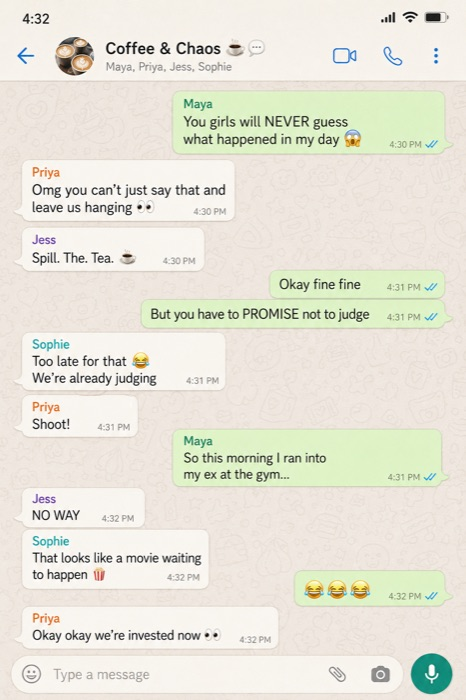
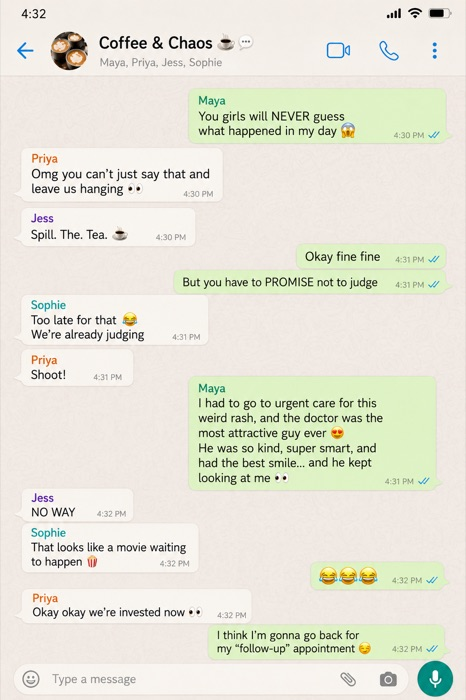
Replace group chat and menu popup images
Swapped in new source images for the GROUP CHAT and MENU snippets
(assets/images/groupchat.jpg, menu.jpg), resized/compressed to match the
existing popup-image convention (~700px tall, JPEG). Verified both render
correctly in their actual popups.

Noted in the README: the new group chat image's chat text carries an
incidental "the doctor... he" line, a third casual gendered-doctor
mention beyond the two the project deliberately limited itself to. Its
snippet's own trap is unrelated (dying-of-laughter, not occupation/gender)
so it doesn't affect that mechanic, but it's flagged for the record.

diff --git a/README.md b/README.md
@@ -76,6 +76,13 @@ never seeded — those traps stay pure mirrors of the player. The end screen
 then reads the player's gendered filings against the piles: confirming the
 skew, going against it, and staying out of it each get an honest line.
 
+(The group chat popup image also carries an incidental "the doctor... he"
+mention in its chat text — a byproduct of the image swap, not a seeded
+snippet. That snippet's own trap is 💀 laughing-vs-dying, unrelated to the
+occupation-gender one above, so it doesn't feed the medical trap, but it is
+a third casual "doctor = he" mention worth knowing about if the gendered-line
+count ever matters again.)
+
 ## Popup images
 
 Each Era 1 snippet shows one real document image (`assets/images/`) instead
